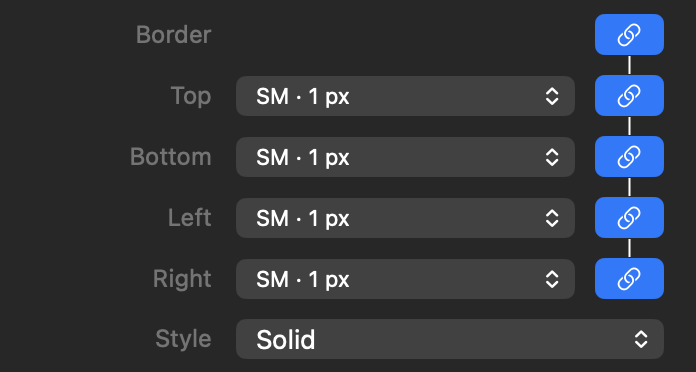
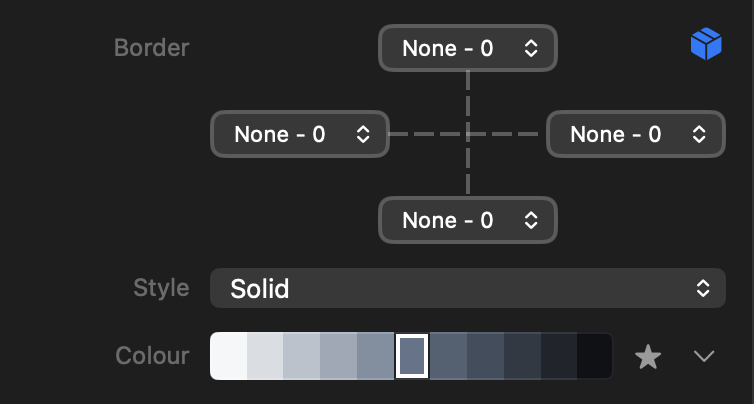
Document the box-model Edges control and theme colour derived values
The four-edge pages (padding, margin, border, radius) now describe the
box editor: a single theme/custom mode button replacing the per-edge
Custom choice, two pair-link buttons with the second link cascading its
leading edge, and all-or-nothing initial link state. New screenshots for
padding, margin and border. The single theme spacing page reflects that
its editor is fixed by the declared default. The theme colour page gains
outputFormat and a Derived values section: unqualified appearance-aware
contrastColor and filters, with channels, accessibility values and
fragment formats behind light/dark qualification.

diff --git a/theme-border-control.md b/theme-border-control.md
@@ -7,12 +7,12 @@ permalink: /theme-border-control.html
 {% endraw %}{% include breadcrumbs.html %}{% raw %}
 <p class="eyebrow">Info.plist · controls</p>
 <h1>Theme border</h1>
-<p class="lede">Four linked width rows and an optional style picker.</p>
+<p class="lede">A four-edge width editor and an optional style picker.</p>
 
 
 <figure class="control-screenshot">
-    <img src="assets/screenshots/theme-border-control.png" width="348" height="186" alt="Linked border widths set to SM · 1 px, with the optional Style row set to Solid." />
-    <figcaption>Four linked edge widths, with the optional border-style picker enabled.</figcaption>
+    <img src="assets/screenshots/theme-border-control.png?v=2" width="377" height="202" alt="Foundry’s Theme border width editor in theme mode with all four edges set to None - 0 and both pairs unlinked, above a Style row set to Solid and a separate Colour row." />
+    <figcaption>The four-edge width editor with the optional Style row. The Colour row shown below is a separate theme colour control.</figcaption>
 </figure>
 
 ## Quick example
@@ -47,7 +47,7 @@ Use it in the part's CSS template:
 <h3 class="property-heading"><code>type</code></h3>
 <div class="property-meta"><span class="property-type">String</span><span class="required">Required</span></div>
 
-Always `themeBorder`. Width rows are always visible. The optional Style row appears below them. Does not accept `count`, `options`, `themeValues`, `minimum`, `maximum`, `step`, or `unit`.
+Always `themeBorder`. The four width fields are always visible. The optional Style row appears below them. Does not accept `count`, `options`, `themeValues`, `minimum`, `maximum`, `step`, or `unit`.
 
 <h3 class="property-heading"><code>id</code></h3>
 <div class="property-meta"><span class="property-type">String</span><span class="required">Required</span></div>
@@ -57,7 +57,7 @@ Unique identifier starting with a letter and containing letters, numbers, unders
 <h3 class="property-heading"><code>label</code></h3>
 <div class="property-meta"><span class="property-type">String</span><span class="optional">Optional</span><span class="default">Default: Border</span></div>
 
-Shown in the normal Inspector label column beside the all-edges link button. Empty labels also fall back to Border. Fixed width rows are Top, Bottom, Left and Right; the optional additional row is Style.
+Shown in the normal Inspector label column. Empty labels also fall back to Border. The four width fields are Top, Bottom, Left and Right; the optional additional row is Style.
 
 <h3 class="property-heading"><code>group</code></h3>
 <div class="property-meta"><span class="property-type">String</span><span class="optional">Optional</span><span class="default">Default: Settings</span></div>
@@ -79,7 +79,11 @@ Contains required `width` and optional `style`. No other keys are accepted.
 
 Accepts `none`, `xs`, `sm`, `md`, `lg`, or `xl`; a custom length dictionary with exactly `value` (finite, nonnegative Number) and `unit` (`px`, `rem`, or `em`); or a dictionary containing all four `top`, `right`, `bottom`, `left` selections. Each edge accepts a token or custom length. Percentages, negative lengths, `auto`, arrays and raw CSS strings are rejected.
 
-Theme tokens use the border-width scale in pixels. None outputs `0`. Identical selections start linked; differing edges start independent. Linking all uses Top; Top–Bottom uses Top; Left–Right uses Left. Linking the second pair promotes to all-linked using Top. Unlinking preserves values. Custom starts with the current theme amount in pixels; returning to theme restores the previous token.
+Theme tokens use the border-width scale in pixels. None outputs `0`. A shared default, or a four-edge dictionary whose edges are all equal, starts with both pairs linked; any differing edge starts the control fully unlinked.
+
+A single mode button switches the whole control between theme values and custom lengths; there is no per-edge Custom choice. Theme mode shows each edge as a picker of the theme's border widths. Custom mode shows a number field and unit menu (`px`, `rem`, `em`) for each edge. Switching to custom starts each edge with its theme amount in pixels; switching back to theme selects the nearest theme value for each edge.
+
+Two link buttons connect the edges: one links Top–Bottom using Top, the other links Left–Right using Left, regardless of which end was clicked. With both pairs linked, all four edges edit together, and completing the second link copies its own pair's leading edge — Top or Left — to all four. Unlinking preserves values. Linking shares the complete selection, token or amount and unit.
 
 <h3 class="property-heading"><code>defaults.base.style</code></h3>
 <div class="property-meta"><span class="property-type">String</span><span class="optional">Optional</span><span class="default">Default: solid</span></div>

diff --git a/theme-padding-control.md b/theme-padding-control.md
@@ -7,11 +7,11 @@ permalink: "/theme-padding-control.html"
 {% endraw %}{% include breadcrumbs.html %}{% raw %}
 <p class="eyebrow">Info.plist · controls</p>
 <h1>Theme padding</h1>
-<p class="lede">Four always-visible edge rows with theme spacing, custom lengths, and coordinated linking.</p>
+<p class="lede">A four-edge box editor with theme spacing, custom lengths, and coordinated linking.</p>
 
 <figure class="control-screenshot">
-    <img src="assets/screenshots/theme-padding-control.png?v=retina" width="348" height="155" alt="Foundry’s Theme padding control showing Top, Bottom, Left and Right set to XL · 3 rem, with all four edges linked." />
-    <figcaption>All four edges remain visible when linked. Blue link buttons and connecting lines show the linked state.</figcaption>
+    <img src="assets/screenshots/theme-padding-control.png?v=2" width="372" height="140" alt="Foundry’s Theme padding box editor in theme mode with Top and Bottom set to XL - 3rem, Left and Right set to MD - 1.5rem, and both pairs unlinked." />
+    <figcaption>All four edge fields stay visible in every state. Dashed lines link each pair, and the box button switches every edge between theme and custom values.</figcaption>
 </figure>
 
 ## Quick example
@@ -54,7 +54,7 @@ Unique control identifier, starting with a letter and containing letters, number
 <h3 class="property-heading"><code>label</code></h3>
 <div class="property-meta"><span class="property-type">String</span><span class="optional">Optional</span><span class="default">Default: Padding</span></div>
 
-The control's label in the Inspector's normal left-hand label column, beside the all-edges link button. An omitted, empty or whitespace-only label displays Padding. The four fixed row labels are Top, Bottom, Left and Right.
+The control's label in the Inspector's normal left-hand label column. An omitted, empty or whitespace-only label displays Padding. The four edge fields are Top, Bottom, Left and Right.
 
 <h3 class="property-heading"><code>group</code></h3>
 <div class="property-meta"><span class="property-type">String</span><span class="optional">Optional</span><span class="default">Default: Settings</span></div>
@@ -96,9 +96,11 @@ For different initial values:
 </dict></dict>
 ```
 
-Identical edge selections start linked; differing selections start independent. All four rows remain visible. Selecting Custom converts the selected theme amount to rem as the starting value; the return-to-theme button restores the previous theme choice.
+A shared default, or a four-edge dictionary whose edges are all equal, starts with both pairs linked; any differing edge starts the control fully unlinked. All four edge fields remain visible in every state.
 
-The header links all edges using Top. A pair button links Top–Bottom using Top or Left–Right using Left, regardless of which button was clicked. Linking the second pair promotes to all-linked using Top. Unlinking preserves values. Linking also shares the custom/theme mode and unit; it does not merely copy the displayed number.
+A single mode button switches the whole control between theme values and custom lengths; there is no per-edge Custom choice. Theme mode shows each edge as a picker of the active theme's spacing values. Custom mode shows a number field and unit menu (`px`, `rem`, `em`, `%`) for each edge. Switching to custom starts each edge with its theme amount in rem; switching back to theme selects the nearest theme value for each edge.
+
+Two link buttons connect the edges: one links Top–Bottom using Top, the other links Left–Right using Left, regardless of which end was clicked. With both pairs linked, all four edges edit together, and completing the second link copies its own pair's leading edge — Top or Left — to all four. Unlinking preserves values. Linking shares the complete selection, token or amount and unit; it does not merely copy the displayed number.
 
 <h3 class="property-heading"><code>responsive</code></h3>
 <div class="property-meta"><span class="property-type">Boolean</span><span class="optional">Optional</span><span class="default">Default: false</span></div>

diff --git a/theme-margin-control.md b/theme-margin-control.md
@@ -7,12 +7,12 @@ permalink: "/theme-margin-control.html"
 {% endraw %}{% include breadcrumbs.html %}{% raw %}
 <p class="eyebrow">Info.plist · controls</p>
 <h1>Theme margin</h1>
-<p class="lede">Four always-visible edge rows with theme spacing, custom lengths, and coordinated linking.</p>
+<p class="lede">A four-edge box editor with theme spacing, custom lengths, and coordinated linking.</p>
 
 
 <figure class="control-screenshot">
-    <img src="assets/screenshots/theme-margin-control.png" width="348" height="164" alt="Four linked margin rows set to None · 0." />
-    <figcaption>Top, Bottom, Left and Right remain visible in the linked state.</figcaption>
+    <img src="assets/screenshots/theme-margin-control.png?v=2" width="371" height="131" alt="Foundry’s Theme margin box editor in theme mode with all four edges set to None - 0 and both pairs unlinked." />
+    <figcaption>Top, Bottom, Left and Right fields around the pair link lines, with the box button switching between theme and custom values.</figcaption>
 </figure>
 
 ## Quick example
@@ -55,7 +55,7 @@ Unique control identifier, starting with a letter and containing letters, number
 <h3 class="property-heading"><code>label</code></h3>
 <div class="property-meta"><span class="property-type">String</span><span class="optional">Optional</span><span class="default">Default: Margin</span></div>
 
-The control's label in the Inspector's normal left-hand label column, beside the all-edges link button. An omitted, empty or whitespace-only label displays Margin. The four fixed row labels are Top, Bottom, Left and Right.
+The control's label in the Inspector's normal left-hand label column. An omitted, empty or whitespace-only label displays Margin. The four edge fields are Top, Bottom, Left and Right.
 
 <h3 class="property-heading"><code>group</code></h3>
 <div class="property-meta"><span class="property-type">String</span><span class="optional">Optional</span><span class="default">Default: Settings</span></div>
@@ -98,9 +98,11 @@ For different initial values:
 </dict></dict>
 ```
 
-Identical edge selections start linked; differing selections start independent. All four rows remain visible. Selecting Custom converts the selected theme amount to rem as the starting value; the return-to-theme button restores the previous theme choice.
+A shared default, or a four-edge dictionary whose edges are all equal, starts with both pairs linked; any differing edge starts the control fully unlinked. All four edge fields remain visible in every state.
 
-The header links all edges using Top. A pair button links Top–Bottom using Top or Left–Right using Left, regardless of which button was clicked. Linking the second pair promotes to all-linked using Top. Unlinking preserves values. Linking also shares the custom/theme mode and unit; it does not merely copy the displayed number.
+A single mode button switches the whole control between theme values and custom lengths; there is no per-edge Custom choice. Theme mode shows each edge as a picker of the active theme's spacing values, plus None and Auto. Custom mode shows a number field and unit menu (`px`, `rem`, `em`, `%`) for each edge; negative amounts are accepted. Switching to custom starts each edge with its theme amount in rem; switching back to theme selects the nearest theme value for each edge.
+
+Two link buttons connect the edges: one links Top–Bottom using Top, the other links Left–Right using Left, regardless of which end was clicked. With both pairs linked, all four edges edit together, and completing the second link copies its own pair's leading edge — Top or Left — to all four. Unlinking preserves values. Linking shares the complete selection, token or amount and unit; it does not merely copy the displayed number.
 
 <h3 class="property-heading"><code>responsive</code></h3>
 <div class="property-meta"><span class="property-type">Boolean</span><span class="optional">Optional</span><span class="default">Default: false</span></div>

diff --git a/theme-colour-control.md b/theme-colour-control.md
@@ -162,11 +162,49 @@ The initial literal colour for both appearances. It must be `#RRGGBB`, requires 
 
 Allows alpha for the literal Custom Colour choice. It does not add an opacity adjustment to palette selections.
 
+<h3 class="property-heading"><code>outputFormat</code></h3>
+<div class="property-meta"><span class="property-type">String</span><span class="optional">Optional</span><span class="default">Default: hex</span></div>
+
+Controls how the resolved colour is supplied to templates. Only the complete-colour formats are accepted: `hex`, `rgb`, `rgba`, `hsl`, or `hsla`, with the same output shapes as the [Colour control](colour.html). The fragment formats (`hexValue`, `rgbValues`, `rgbaValues`, `hslValues`, `hslaValues`) are rejected — a theme colour must stay a complete CSS colour so it can adapt between light and dark; use the qualified `light`/`dark` fields below for embeddable fragments.
+
 ## Return value
 
 Returns a CSS colour, not a palette ID or shade number. The canvas resolves the appearance being edited. Light-only and dark-only sites export the corresponding colour. Sites supporting both export a CSS `light-dark(light, dark)` colour, following the browser's system preference unless explicitly overridden. Custom Colour selections include their appearance-specific opacity when enabled. Use the result directly in CSS rather than treating it as a hexadecimal string.
 
 For sites supporting both appearances, a part can call `window.foundryAppearance.set('light')`, `.set('dark')`, or `.set('system')` in its browser script. The visitor's choice is remembered for that site. This interface is not installed in the editing canvas or on single-appearance sites.
+
+## Derived values
+
+A theme colour is a light/dark pair, so its derived values come in two kinds. Colour-valued outputs stay unqualified and adapt between appearances automatically, exactly like the main value. Numeric outputs are fixed numbers baked into the published file, so they are qualified with `light` or `dark` — both are always available and always truthful, whatever the site's appearance setting.
+
+Unqualified, appearance-aware:
+
+- `contrastColor` returns `#000000` or `#FFFFFF` per appearance, combined into `light-dark(…)` on sites supporting both.
+- The [colour filters](colour.html#colour-filters) — `lighten`, `darken`, `withAlpha`, and `mix` — apply to each appearance's colour independently and return one appearance-aware colour. `mix` with another theme colour mixes light with light and dark with dark.
+
+```css
+.card {
+    background: {{ control.backgroundColor }};
+    color: {{ control.backgroundColor.contrastColor }};
+    border-color: {{ control.backgroundColor | darken(20) }};
+}
+```
+
+Qualified with `light` or `dark`:
+
+- `red`, `green` and `blue` return numbers from 0 through 255; `alpha` returns 0 through 1; `hue` returns degrees; `saturation` and `lightness` return percentages as numbers.
+- `relativeLuminance`, `contrastColor`, `contrastRatioWithBlack` and `contrastRatioWithWhite` return that appearance's accessibility values.
+- `hexValue`, `rgbValues`, `rgbaValues`, `hslValues` and `hslaValues` return embeddable fragments.
+- The colour filters also chain from a qualified colour, returning that one appearance's result.
+
+```css
+:root {
+    --brand-rgb: {{ control.backgroundColor.light.rgbValues }};
+    --brand-rgb-dark: {{ control.backgroundColor.dark.rgbValues }};
+}
+```
+
+Qualified numbers never change with the site's appearance setting: `light.red` always means "the red channel of the light selection", including while the canvas shows dark. Numeric values are usable in template expressions.
 
 ## Complete example
 

diff --git a/theme-radius-control.md b/theme-radius-control.md
@@ -7,7 +7,7 @@ permalink: "/theme-radius-control.html"
 {% endraw %}{% include breadcrumbs.html %}{% raw %}
 <p class="eyebrow">Info.plist · controls</p>
 <h1>Theme radius</h1>
-<p class="lede">Four always-visible corner rows with theme radius, custom lengths, and coordinated linking.</p>
+<p class="lede">A four-corner box editor with theme radius, custom lengths, and coordinated linking.</p>
 
 
 <figure class="control-screenshot">
@@ -55,7 +55,7 @@ Unique control identifier, starting with a letter and containing letters, number
 <h3 class="property-heading"><code>label</code></h3>
 <div class="property-meta"><span class="property-type">String</span><span class="optional">Optional</span><span class="default">Default: Radius</span></div>
 
-The control's label in the Inspector's normal left-hand label column, beside the all-corners link button. An omitted, empty or whitespace-only label displays Radius. The four fixed row labels are Top Left, Top Right, Bottom Left and Bottom Right.
+The control's label in the Inspector's normal left-hand label column. An omitted, empty or whitespace-only label displays Radius. The four corner fields are Top Left, Top Right, Bottom Left and Bottom Right.
 
 <h3 class="property-heading"><code>group</code></h3>
 <div class="property-meta"><span class="property-type">String</span><span class="optional">Optional</span><span class="default">Default: Settings</span></div>
@@ -97,9 +97,11 @@ For different initial values:
 </dict></dict>
 ```
 
-Identical corner selections start linked; differing selections start independent. All four rows remain visible. Selecting Custom converts the selected theme amount to px as the starting value; the return-to-theme button restores the previous theme choice.
+A shared default, or a four-corner dictionary whose corners are all equal, starts with both pairs linked; any differing corner starts the control fully unlinked. All four corner fields remain visible in every state.
 
-The header links all corners using Top Left. A pair button links Top Left–Top Right using Top Left, or Bottom Left–Bottom Right using Bottom Left, regardless of which button was clicked. Linking the second pair promotes to all-linked using Top Left. Unlinking preserves values. Linking also shares the custom/theme mode and unit; it does not merely copy the displayed number.
+A single mode button switches the whole control between theme values and custom lengths; there is no per-corner Custom choice. Theme mode shows each corner as a picker of the theme's radius values. Custom mode shows a number field and unit menu (`px`, `rem`, `em`, `%`) for each corner. Switching to custom starts each corner with its theme amount in pixels; switching back to theme selects the nearest theme value for each corner.
+
+Two link buttons connect the corners: one links Top Left–Top Right using Top Left, the other links Bottom Left–Bottom Right using Bottom Left, regardless of which end was clicked. With both pairs linked, all four corners edit together, and completing the second link copies its own pair's leading corner — Top Left or Bottom Left — to all four. Unlinking preserves values. Linking shares the complete selection, token or amount and unit; it does not merely copy the displayed number.
 
 <h3 class="property-heading"><code>responsive</code></h3>
 <div class="property-meta"><span class="property-type">Boolean</span><span class="optional">Optional</span><span class="default">Default: false</span></div>

diff --git a/theme-spacing-control.md b/theme-spacing-control.md
@@ -71,7 +71,7 @@ A dictionary containing the required `base` value and optional breakpoint values
 
 A theme spacing token (`3xs`, `2xs`, `xs`, `sm`, `md`, `lg`, `xl`, `2xl`, `3xl`), `none`, or a custom length dictionary containing exactly `value` (finite, nonnegative Number) and `unit` (`px`, `rem`, `em`, `%`). Arrays, edge dictionaries, negative lengths, `auto`, and raw CSS strings such as `16px` are rejected.
 
-The picker offers the current theme’s spacing choices, including user-created theme spacing values. Portable manifest defaults use the predefined tokens above. Custom inputs are always available. Switching to Custom starts with the resolved theme amount in `rem`; returning to theme restores the previous choice.
+The picker offers the current theme’s spacing choices, including user-created theme spacing values. Portable manifest defaults use the predefined tokens above. The declared default decides the editor: a theme token shows the theme-value picker, and a custom length shows a number field with a unit menu. There is no Inspector switch between the two; declare a custom default when the author should edit a raw length.
 
 ```xml
 <key>defaults</key><dict><key>base</key><dict>
